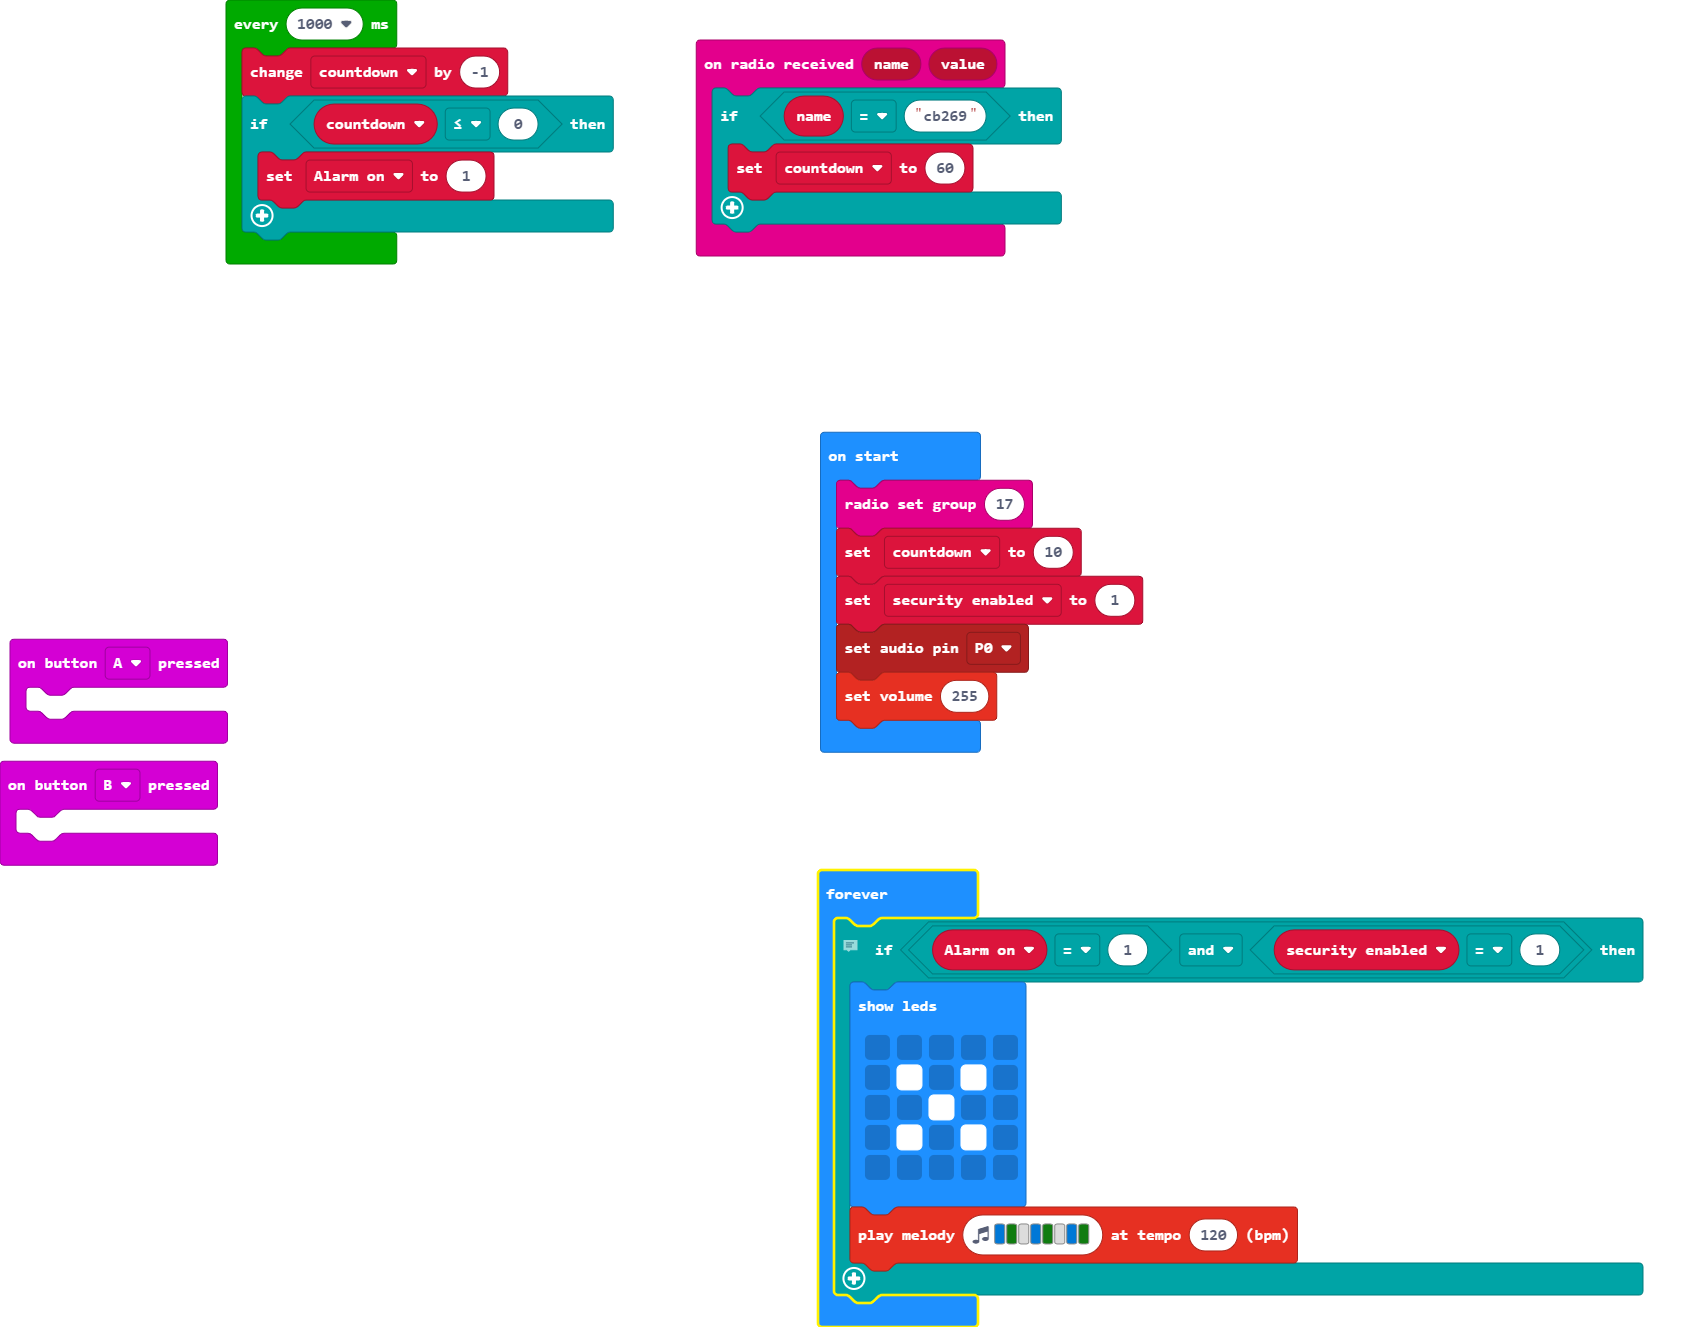
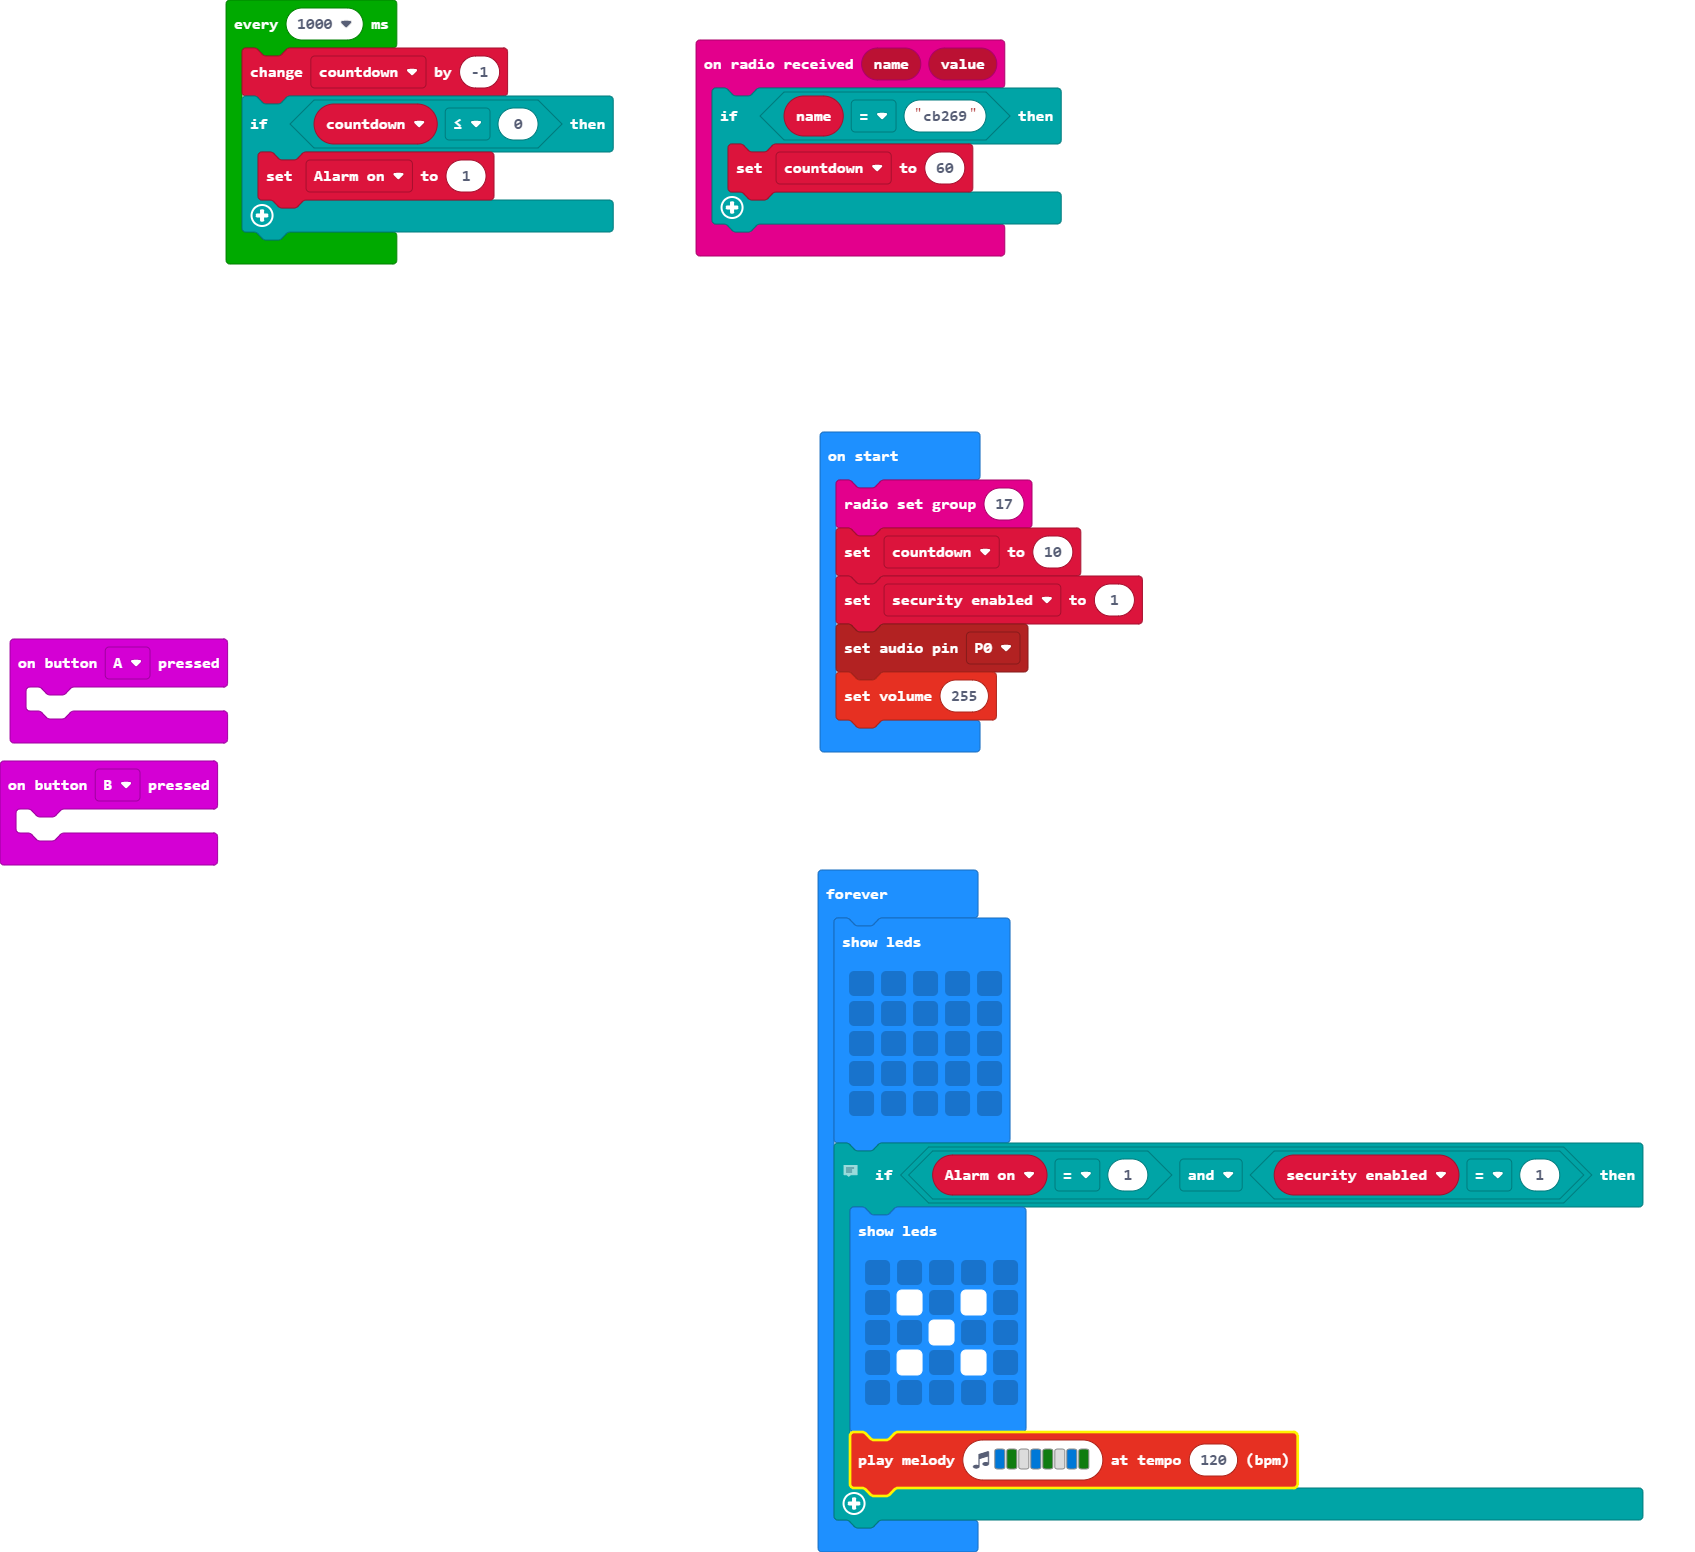
changes

diff --git a/main.ts b/main.ts
@@ -23,6 +23,13 @@ loops.everyInterval(1000, function () {
     }
 })
 basic.forever(function () {
+    basic.showLeds(`
+        . . . . .
+        . . . . .
+        . . . . .
+        . . . . .
+        . . . . .
+        `)
     // alarm
     if (Alarm_on == 1 && security_enabled == 1) {
         basic.showLeds(`
